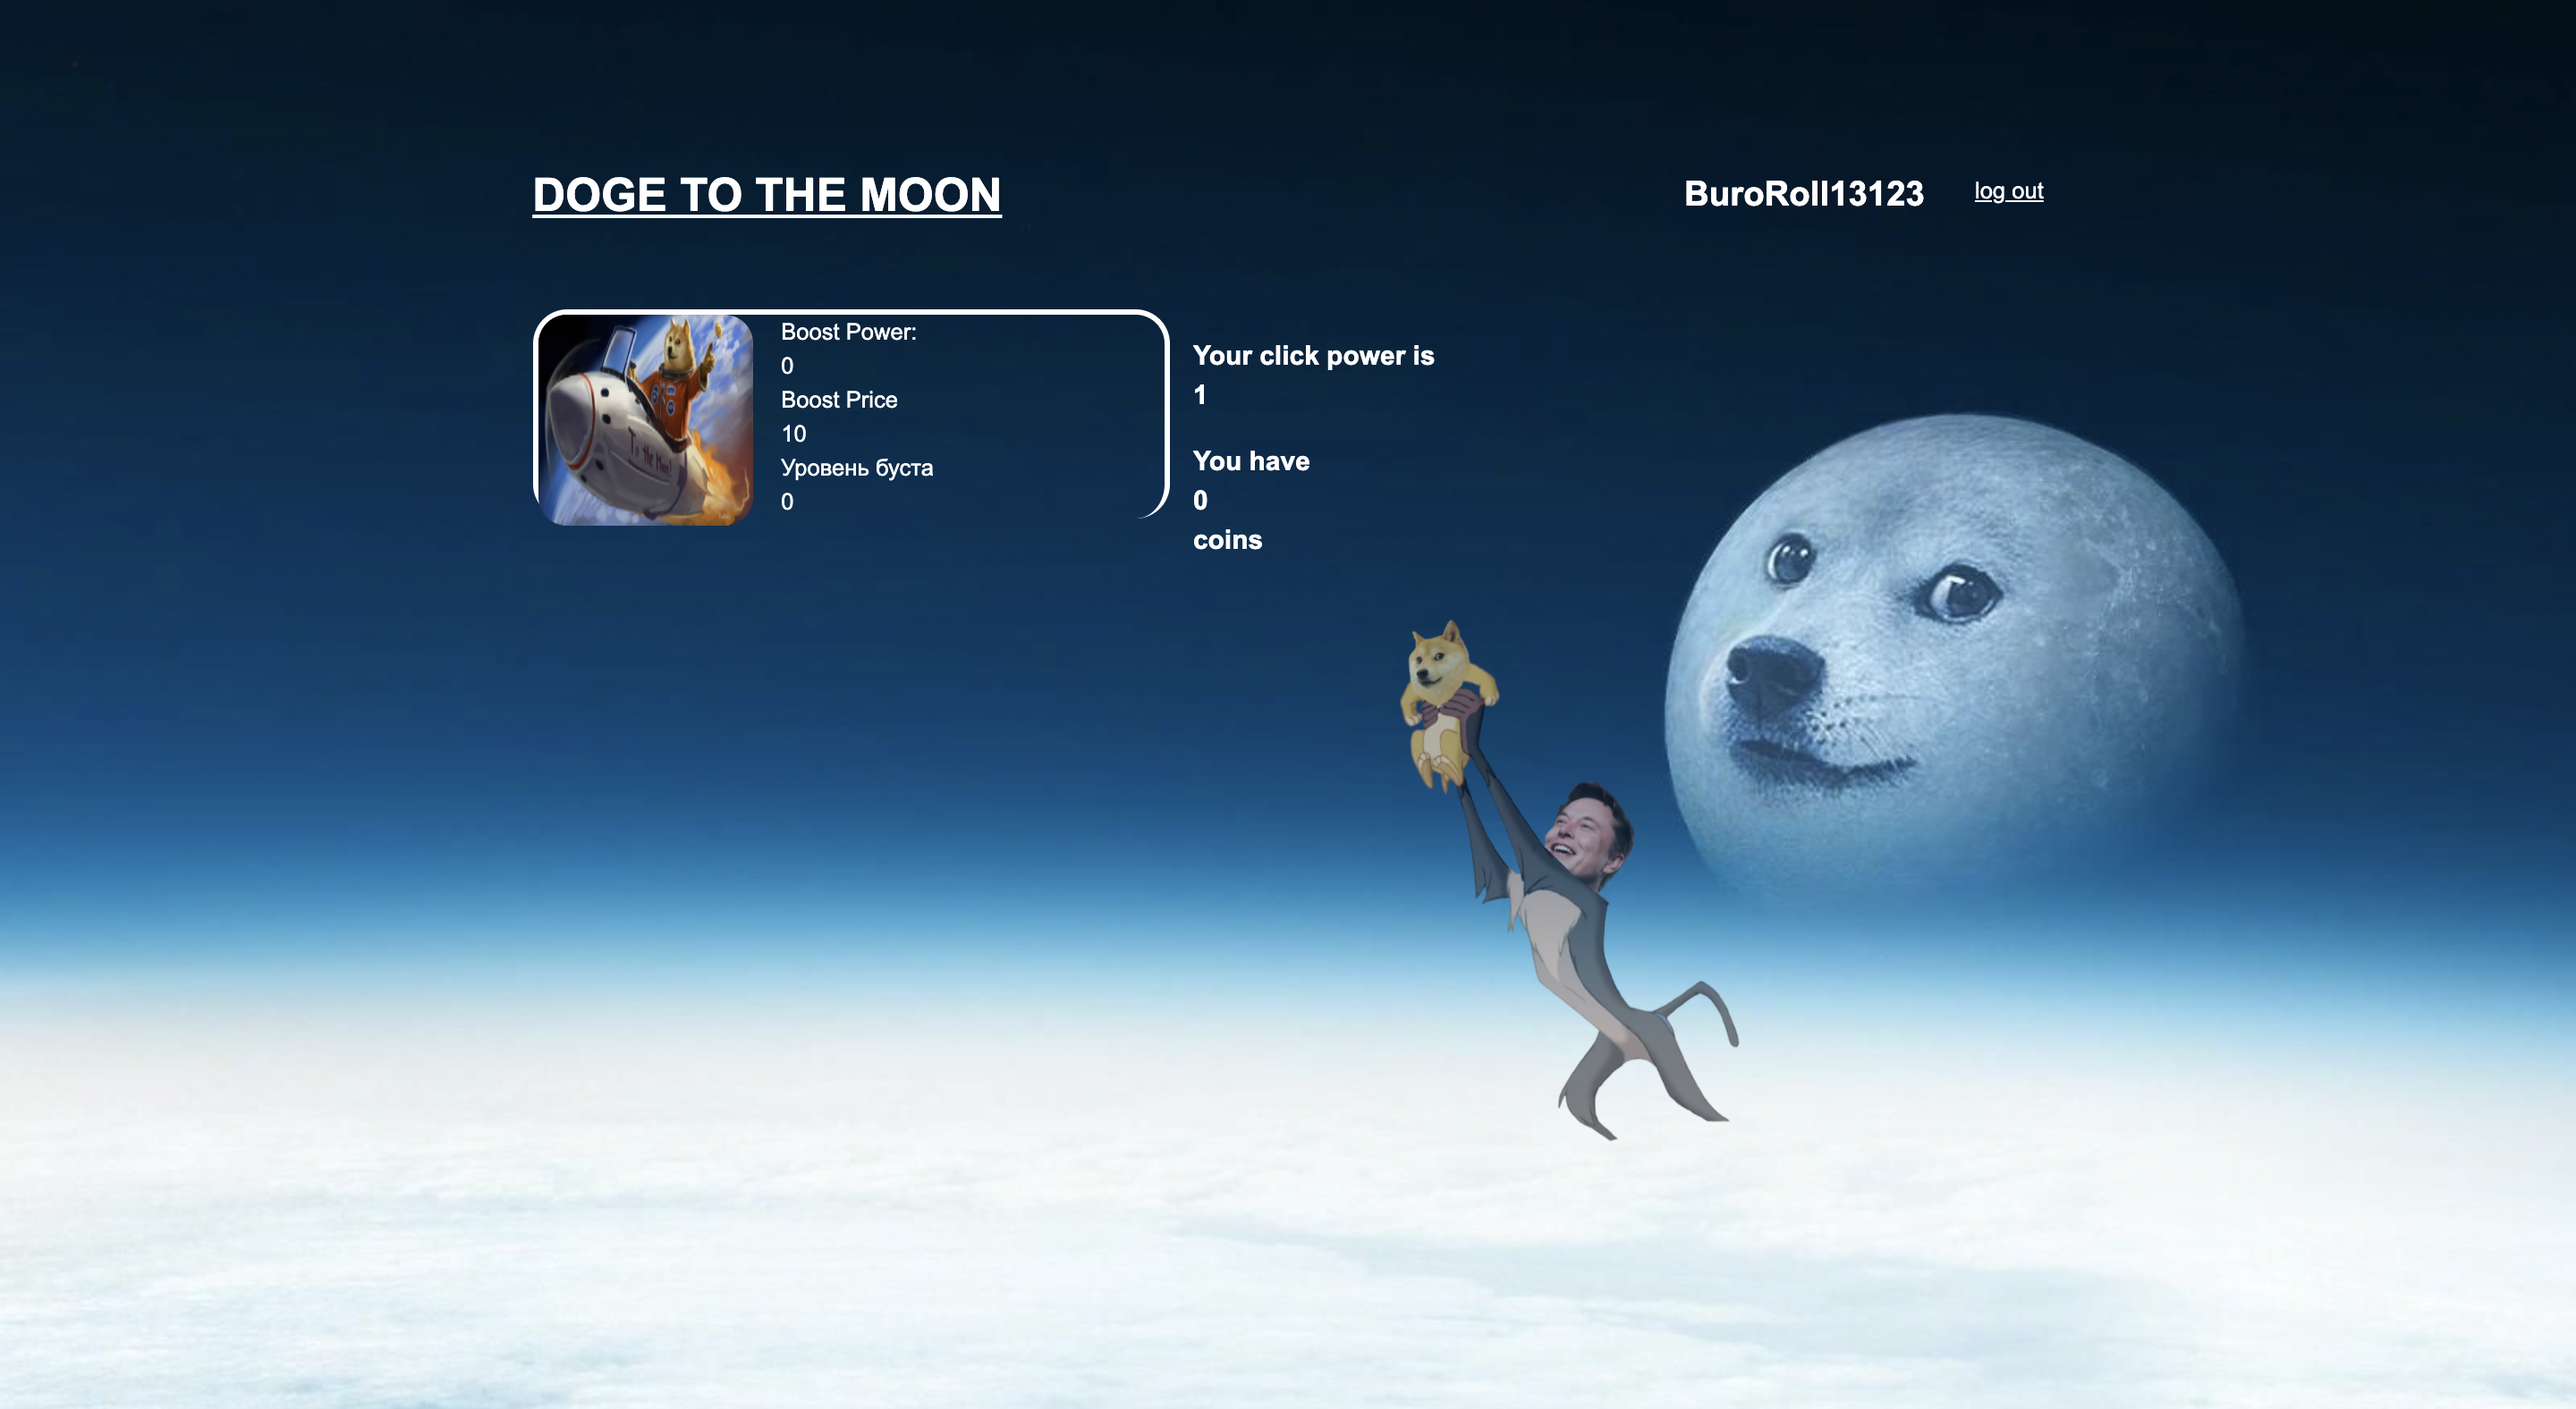
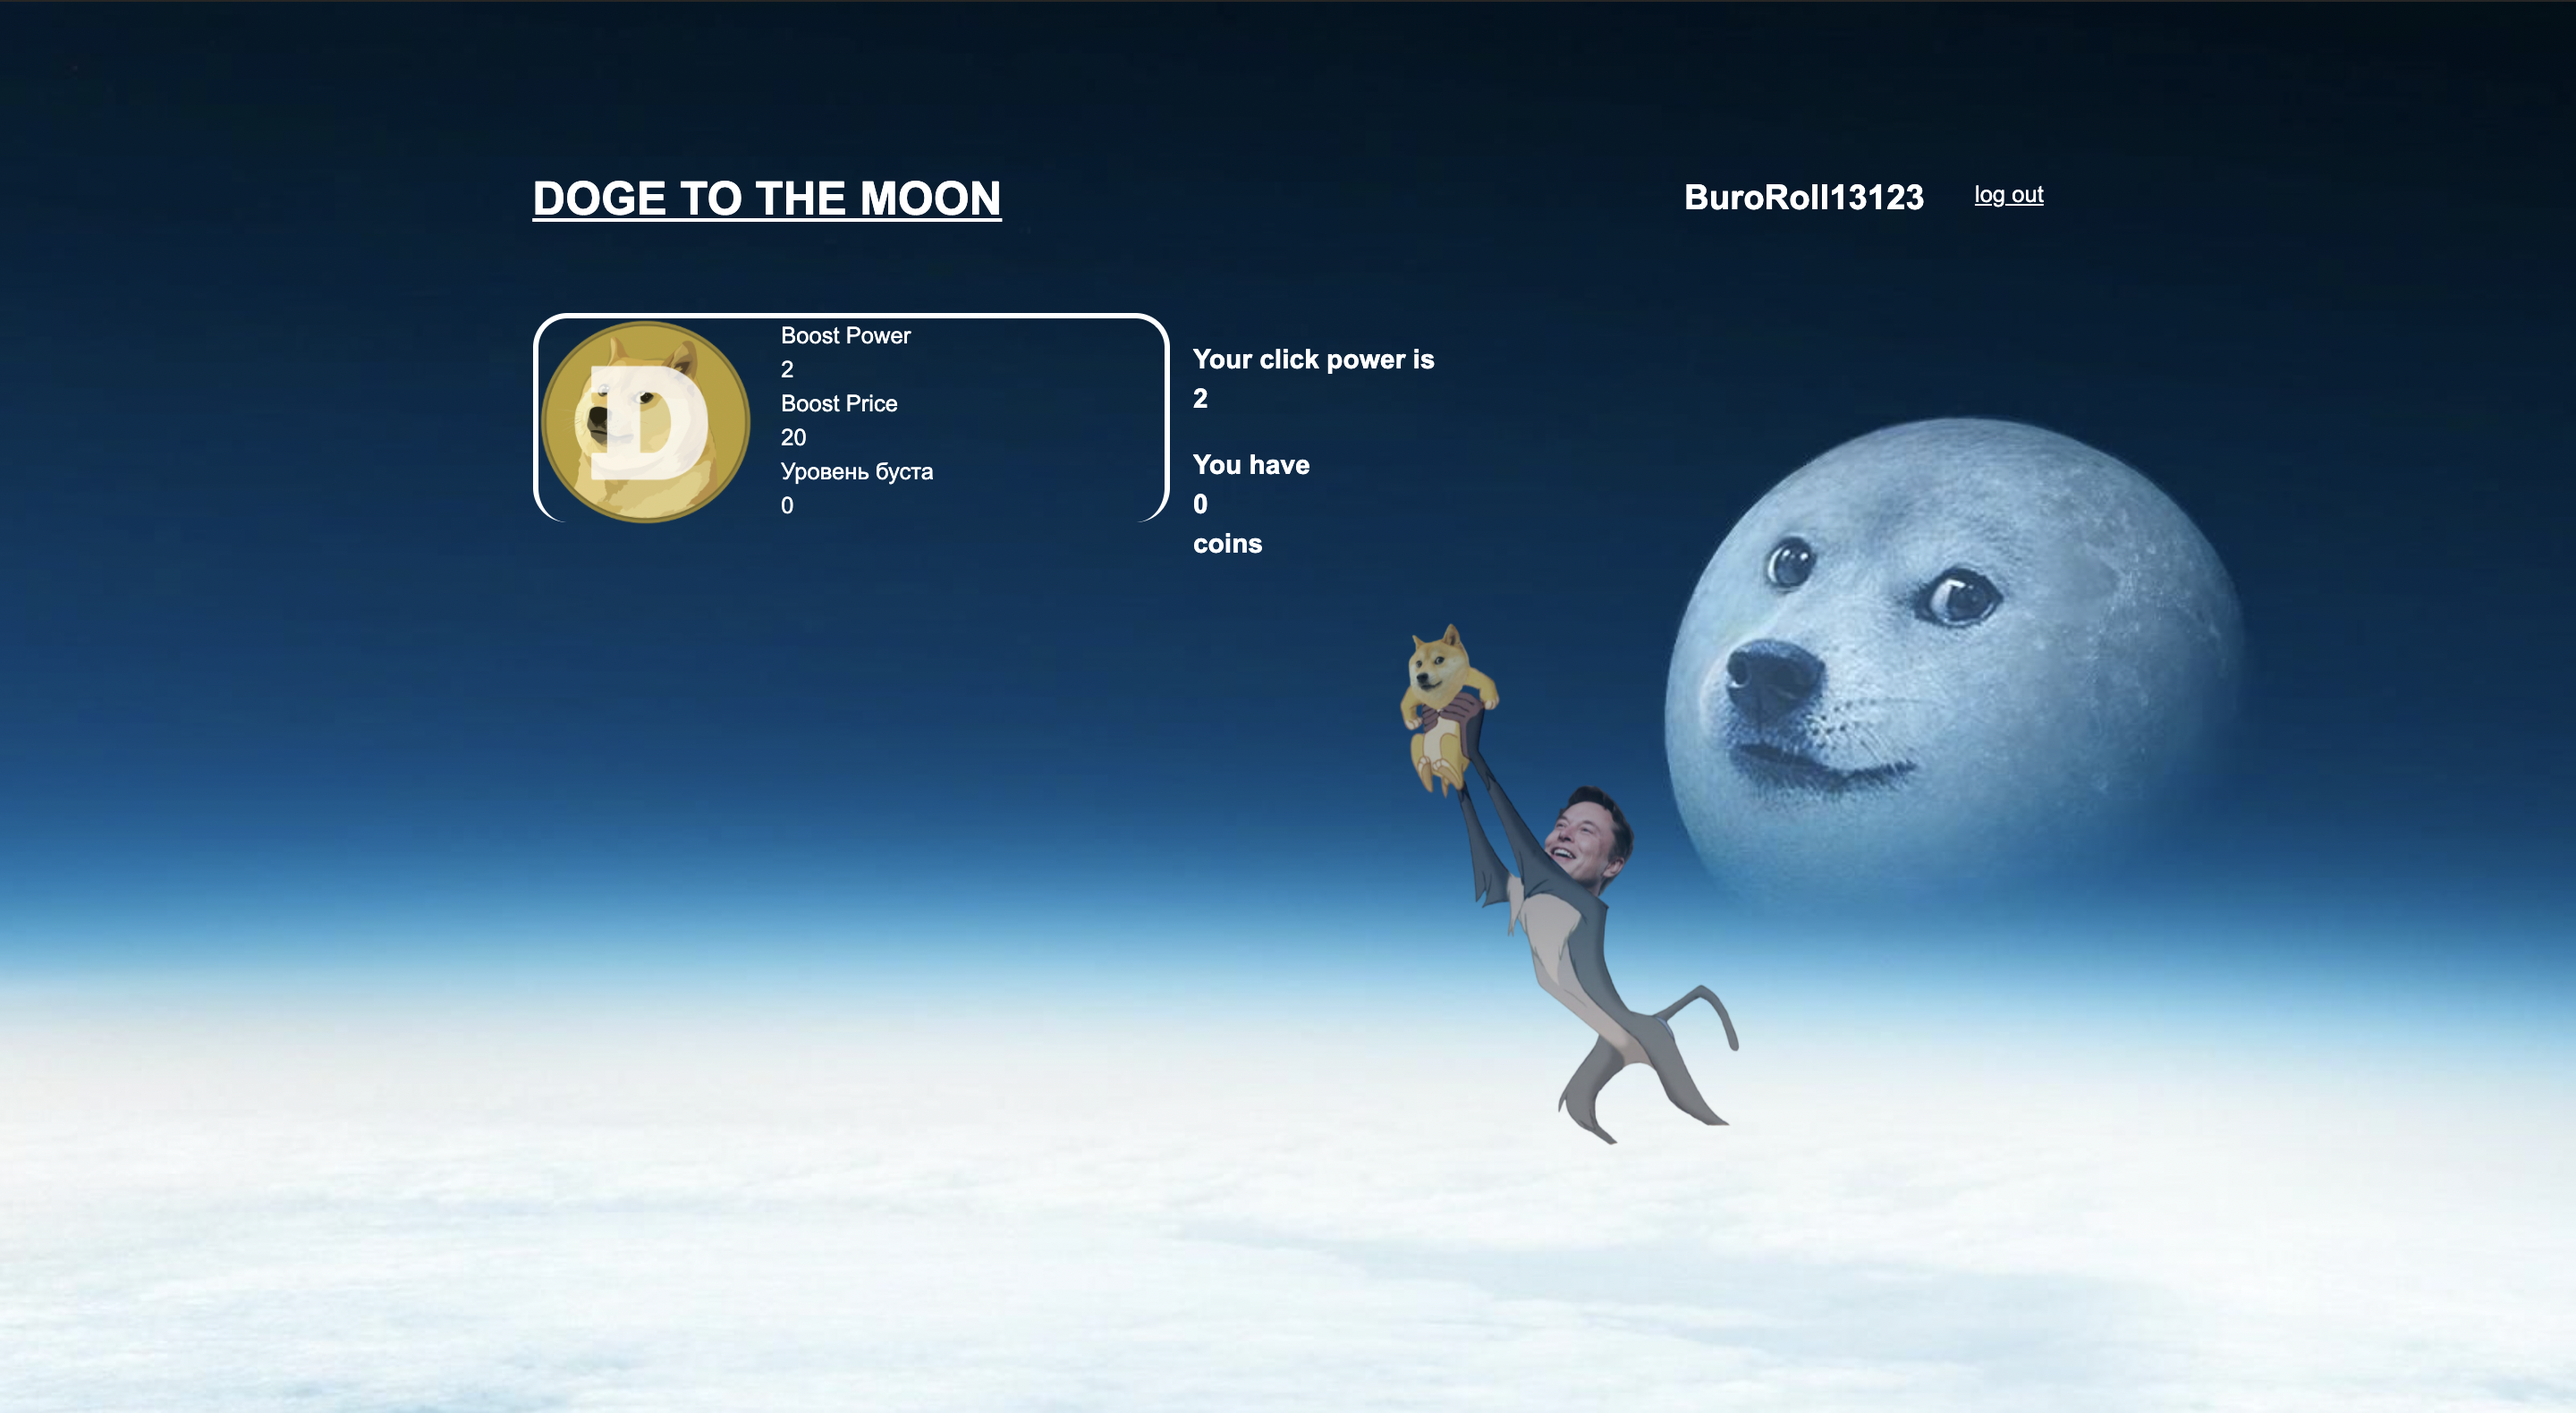
minor update

diff --git a/frontend/templates/index.html b/frontend/templates/index.html
@@ -24,8 +24,8 @@
         <div class="boost-wrapper" id="boost-wrapper">
             <div class="boost-holder" id="boost-holder">
                 <div class="item-1">
-                    <input type="image" style="height: 147px; width: 150px; border-radius: 20px"
-                           src="https://www.dogecoin.nl/assets/yu-dum-fuk.jpeg"
+                    <input type="image" style="height: 145px; width: 150px; border-radius: 20px"
+                           src="https://pbs.twimg.com/profile_images/1384292719284027397/MOw0AJrZ_400x400.png"
                            onclick="buyBoost(0)"/>
                 </div>
 

diff --git a/frontend/static/js/index.js b/frontend/static/js/index.js
@@ -112,7 +112,7 @@ function render_boost(parent, boost) {
     div.innerHTML = `
     
                 <div class="item-1">
-                    <input type="image" style="height: 147px; width: 150px; border-radius: 20px" src="https://www.dogecoin.nl/assets/yu-dum-fuk.jpeg"
+                    <input type="image" style="height: 145px; width: 150px; border-radius: 20px" src="https://pbs.twimg.com/profile_images/1384292719284027397/MOw0AJrZ_400x400.png"
                            onclick="buyBoost(${boost.level})"/>
                 </div>
                 

diff --git a/frontend/static/css/style.css b/frontend/static/css/style.css
@@ -48,19 +48,17 @@
     display: grid;
     grid-template-columns: 1.5fr 2fr;
     grid-gap: 1rem;
-
-> * {
-    display: flex;
-    align-items: center;
-    justify-content: center;
-    padding: 1rem;
-    background: #e2deed;
-    border-radius: 5px;
-    font-weight: bold;
 }
 
-}
-
+/*.wrapper * {*/
+/*    display: flex;*/
+/*    align-items: center;*/
+/*    justify-content: center;*/
+/*    !*padding: 1rem;*!*/
+/*    background: #e2deed;*/
+/*    border-radius: 5px;*/
+/*    font-weight: bold;*/
+/*}*/
 header {
     grid-column: 1 / 3;
 }
